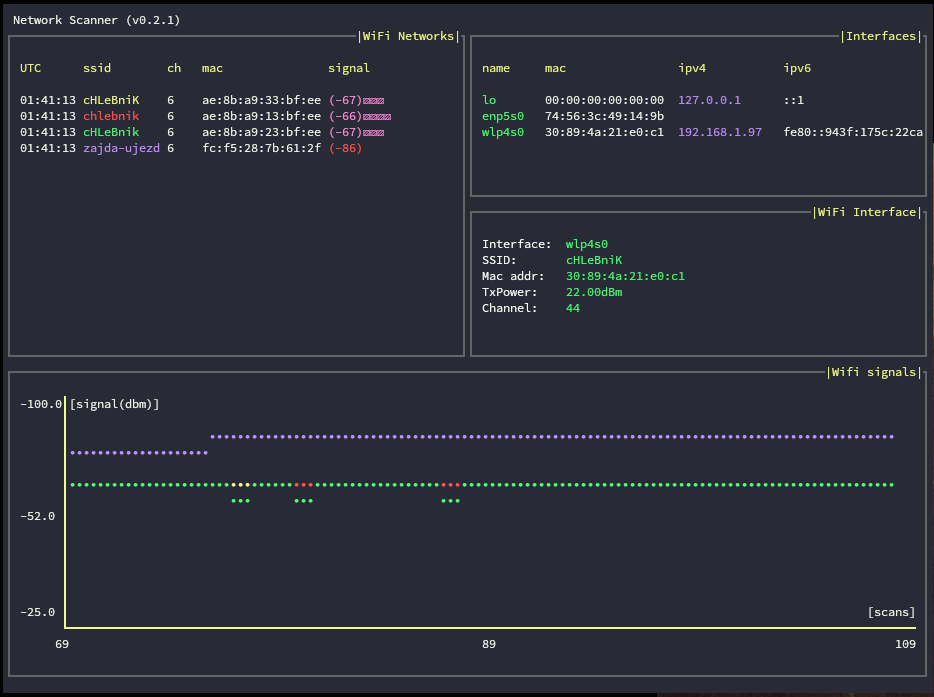
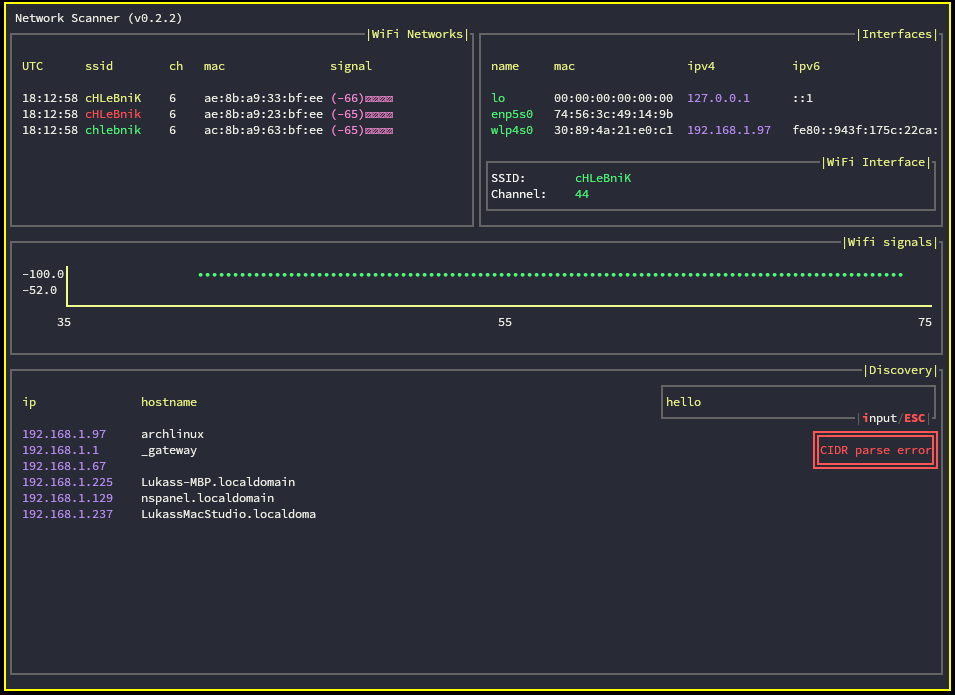
v0.3.0
- finish input logic
- add scanning local network
- update layout

diff --git a/src/components/discovery.rs b/src/components/discovery.rs
@@ -1,20 +1,23 @@
 use chrono::Timelike;
 use cidr::Ipv4Cidr;
 use color_eyre::eyre::Result;
+use dns_lookup::{lookup_addr, lookup_host};
 use itertools::Position;
 use pnet::datalink::{self, NetworkInterface};
 use ratatui::{prelude::*, widgets::*};
 use std::collections::HashMap;
-use std::net::Ipv4Addr;
+use std::net::{IpAddr, Ipv4Addr};
 use std::process::{Command, Output};
-use std::time::Instant;
+use std::time::{Duration, Instant};
+use surge_ping::{Client, Config, IcmpPacket, PingIdentifier, PingSequence, ICMP};
 use tokio::sync::mpsc::UnboundedSender;
 
 use super::Component;
 use crate::{action::Action, mode::Mode, tui::Frame};
+use crossterm::event::{KeyCode, KeyEvent};
+use rand::random;
 use tui_input::backend::crossterm::EventHandler;
 use tui_input::Input;
-use crossterm::event::{KeyEvent, KeyCode};
 
 struct ScannedIp {
     ip: String,
@@ -31,6 +34,7 @@ pub struct Discovery {
     ips_to_scan: Vec<Ipv4Addr>,
     input: Input,
     cidr: Option<Ipv4Cidr>,
+    cidr_error: bool,
     mode: Mode,
 }
 
@@ -48,18 +52,20 @@ impl Discovery {
             scanning: false,
             scanned_ips: Vec::new(),
             ips_to_scan: Vec::new(),
-            input: Input::default(),
+            input: Input::default().with_value(String::from("192.168.1.0/24")),
             cidr: None,
+            cidr_error: false,
             mode: Mode::Normal,
         }
     }
 
     fn app_tick(&mut self) -> Result<()> {
         if self.cidr == None {
-            let cidr_range = "192.168.1.0/24"; // Replace with your CIDR range
+            let cidr_range = "192.168.1.0/24";
             match cidr_range.parse::<Ipv4Cidr>() {
                 Ok(ip_cidr) => {
                     self.cidr = Some(ip_cidr);
+                    self.scan();
                 }
                 Err(e) => {
                     // eprintln!("Error parsing CIDR range: {}", e);
@@ -70,69 +76,96 @@ impl Discovery {
         Ok(())
     }
 
+    fn set_cidr(&mut self, cidr_str: String) {
+        match &cidr_str.parse::<Ipv4Cidr>() {
+            Ok(ip_cidr) => {
+                self.cidr = Some(*ip_cidr);
+                self.scan();
+            }
+            Err(e) => {
+                let tx = self.action_tx.clone().unwrap();
+                let _ = tx.send(Action::CidrError);
+            }
+        }
+    }
+
+    fn scan(&mut self) {
+        if let Some(cidr) = self.cidr {
+            for ip in cidr.iter() {
+                let ip = ip.address().to_string();
+                match ip.parse() {
+                    Ok(IpAddr::V4(addr)) => {
+                        let tx = self.action_tx.clone().unwrap();
+                        tokio::spawn(async move {
+                            let client =
+                                Client::new(&Config::default()).expect("Cannot create client");
+                            let payload = [0; 56];
+                            let mut pinger = client
+                                .pinger(IpAddr::V4(addr), PingIdentifier(random()))
+                                .await;
+                            pinger.timeout(Duration::from_secs(1));
+                            match pinger.ping(PingSequence(0), &payload).await {
+                                Ok((IcmpPacket::V4(packet), dur)) => {
+                                    tx.send(Action::PingIp(packet.get_real_dest().to_string()))
+                                        .unwrap();
+                                }
+                                Ok(_) => {}
+                                Err(_) => {}
+                            }
+                        });
+                    }
+                    Ok(_) => {}
+                    Err(e) => {
+                        let tx = self.action_tx.clone().unwrap();
+                        let _ = tx.send(Action::CidrError);
+                    }
+                }
+            }
+        };
+    }
+
+    fn process_ip(&mut self, ip: &str) {
+        if let Some(n) = self
+            .scanned_ips
+            .iter_mut()
+            .find(|item| item.ip == ip.to_string())
+        {
+            let hip: IpAddr = ip.parse().unwrap();
+            let host = lookup_addr(&hip).unwrap_or(String::from(""));
+            n.hostname = host;
+            n.ip = ip.to_string();
+        } else {
+            let hip: IpAddr = ip.parse().unwrap();
+            let host = lookup_addr(&hip).unwrap_or(String::from(""));
+            // let mac = get_mac_address()
+            self.scanned_ips.push(ScannedIp {
+                ip: ip.to_string(),
+                mac: String::from(""),
+                hostname: host,
+                vendor: String::from(""),
+            })
+        }
+    }
+
     pub fn make_ui(&mut self) -> Table {
-        let header = Row::new(vec!["ip", "mac", "hostname", "vendor"])
+        let header = Row::new(vec!["ip", "hostname"])
             .style(Style::default().fg(Color::Yellow))
             .bottom_margin(1);
         let mut rows = Vec::new();
 
-        if let Some(cidr) = self.cidr {
-            for ip in cidr.iter() {
-                let ip = ip.address().to_string();
-                rows.push(Row::new(vec![
-                    // Cell::from(ip.addr().to_string()),
-                    Cell::from(Span::styled(
-                        format!("{ip:<2}"),
-                        Style::default().fg(Color::Blue),
-                    )),
-                    Cell::from("maslo"),
-                    Cell::from("chleba"),
-                    Cell::from("rohlik"),
-                ]));
-            }
-        };
-
-        // for w in &self.interfaces {
-        //     let name = w.name.clone();
-        //     let mac = w.mac.unwrap().to_string();
-        //     let ipv4: Vec<Line> = w
-        //         .ips
-        //         .iter()
-        //         .filter(|f| f.is_ipv4())
-        //         .cloned()
-        //         .map(|ip| {
-        //             let ip_str = ip.ip().to_string();
-        //             Line::from(vec![Span::styled(
-        //                 format!("{ip_str:<2}"),
-        //                 Style::default().fg(Color::Blue),
-        //             )])
-        //         })
-        //         .collect();
-        //     let ipv6: Vec<Span> = w
-        //         .ips
-        //         .iter()
-        //         .filter(|f| f.is_ipv6())
-        //         .cloned()
-        //         .map(|ip| Span::from(ip.ip().to_string()))
-        //         .collect();
-
-        //     let mut row_height = 1;
-        //     if ipv4.len() > 1 {
-        //         row_height = ipv4.clone().len() as u16;
-        //     }
-        //     rows.push(
-        //         Row::new(vec![
-        //             Cell::from(Span::styled(
-        //                 format!("{name:<2}"),
-        //                 Style::default().fg(Color::Green),
-        //             )),
-        //             Cell::from(mac),
-        //             Cell::from(ipv4.clone()),
-        //             Cell::from(vec![Line::from(ipv6)]),
-        //         ])
-        //         .height(row_height), // .bottom_margin((ipv4.len()) as u16)
-        //     );
-        // }
+        for sip in &self.scanned_ips {
+            let ip = &sip.ip;
+            rows.push(Row::new(vec![
+                Cell::from(Span::styled(
+                    format!("{ip:<2}"),
+                    Style::default().fg(Color::Blue),
+                )),
+                // Cell::from(""),
+                Cell::from(sip.hostname.clone()),
+                // Cell::from(""),
+                // Cell::from(""),
+            ]));
+        }
 
         let table = Table::new(rows)
             .header(header)
@@ -147,9 +180,10 @@ impl Discovery {
             )
             .widths(&[
                 Constraint::Length(16),
-                Constraint::Length(18),
-                Constraint::Length(14),
+                // Constraint::Length(18),
                 Constraint::Length(25),
+                // Constraint::Length(35),
+                // Constraint::Length(25),
             ])
             .column_spacing(1);
         table
@@ -186,6 +220,18 @@ impl Discovery {
             );
         input
     }
+
+    fn make_error(&mut self) -> Paragraph {
+        let error = Paragraph::new("CIDR parse error")
+            .style(Style::default().fg(Color::Red))
+            .block(
+                Block::default()
+                    .borders(Borders::ALL)
+                    .border_type(BorderType::Double)
+                    .border_style(Style::default().fg(Color::Red)),
+            );
+        error
+    }
 }
 
 impl Component for Discovery {
@@ -197,20 +243,16 @@ impl Component for Discovery {
     fn handle_key_events(&mut self, key: KeyEvent) -> Result<Option<Action>> {
         let action = match self.mode {
             Mode::Normal => return Ok(None),
-            Mode::Input=> match key.code {
+            Mode::Input => match key.code {
                 KeyCode::Enter => {
                     if let Some(sender) = &self.action_tx {
-                        // if let Err(e) =
-                        //     // sender.send(Action::CompleteInput(self.input.value().to_string()))
-                        // {
-                        //     error!("Failed to send action: {:?}", e);
-                        // }
+                        self.set_cidr(self.input.value().to_string());
                     }
                     Action::ModeChange(Mode::Normal)
                 }
                 _ => {
                     self.input.handle_event(&crossterm::event::Event::Key(key));
-                    return Ok(None)
+                    return Ok(None);
                 }
             },
         };
@@ -222,9 +264,18 @@ impl Component for Discovery {
             self.app_tick()?
         }
         // -- custom actions
+        if let Action::PingIp(ref ip) = action {
+            self.process_ip(ip);
+        }
+
+        if let Action::CidrError = action {
+            self.cidr_error = true;
+        }
+
         if let Action::ModeChange(mode) = action {
             if mode == Mode::Input {
                 self.input.reset();
+                self.cidr_error = false;
             }
             self.mode = mode;
         }
@@ -237,16 +288,23 @@ impl Component for Discovery {
             .direction(Direction::Vertical)
             .constraints([Constraint::Percentage(50), Constraint::Percentage(50)])
             .split(area);
+
+        // -- TABLE
         let mut table_rect = layout[1].clone();
         table_rect.y += 1;
         table_rect.height -= 1;
-
-        let input_rect = Rect::new(table_rect.width - 41, table_rect.y + 1, 40, 3);
-
         let block = self.make_ui();
         f.render_widget(block, table_rect);
 
-        
+        // -- ERROR
+        if self.cidr_error == true {
+            let error_rect = Rect::new(table_rect.width - 19, table_rect.y + 4, 18, 3);
+            let block = self.make_error();
+            f.render_widget(block, error_rect);
+        }
+
+        // -- INPUT
+        let input_rect = Rect::new(table_rect.width - 41, table_rect.y + 1, 40, 3);
         let scroll = self.input.visual_scroll(40);
         let block = self.make_input(scroll);
         f.render_widget(block, input_rect);

diff --git a/src/action.rs b/src/action.rs
@@ -25,6 +25,8 @@ pub enum Action {
     // -- custom actions
     Scan(Vec<WifiInfo>),
     ModeChange(Mode),
+    PingIp(String),
+    CidrError,
 }
 
 impl<'de> Deserialize<'de> for Action {
